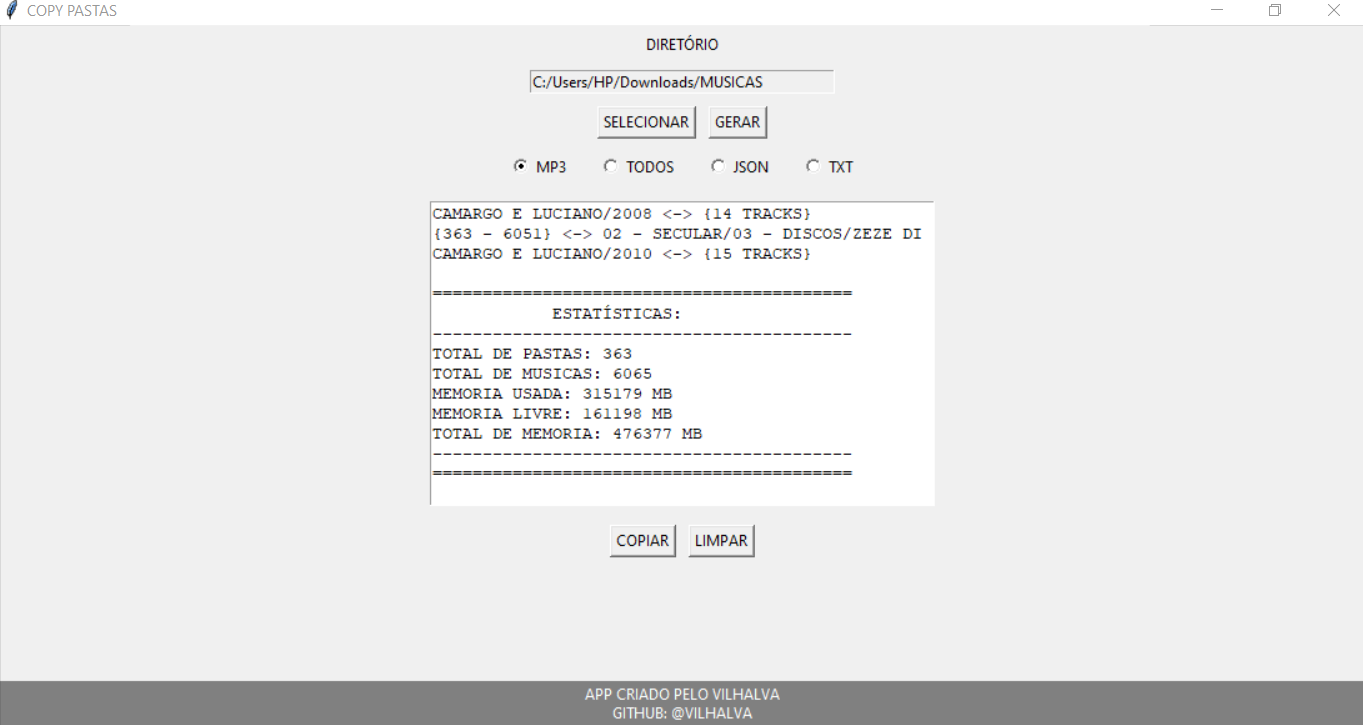
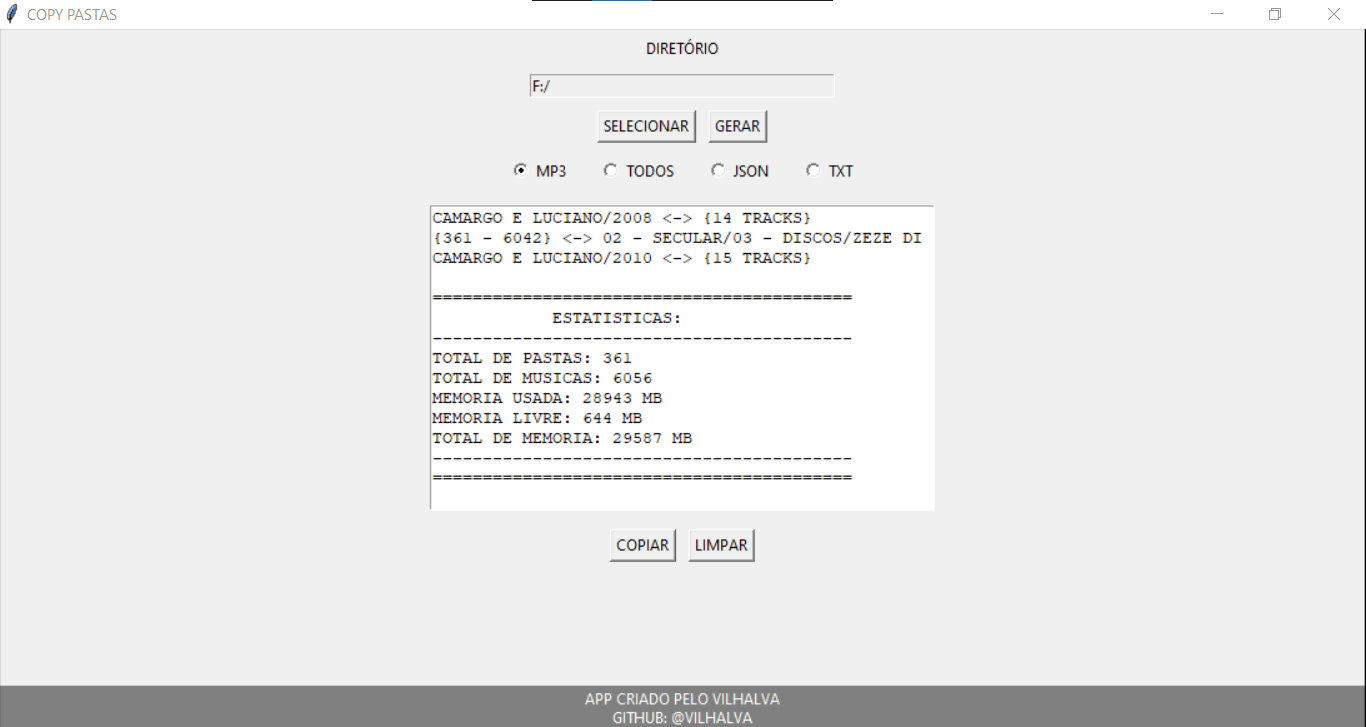
Add files via upload

diff --git a/CODIGO/CODIGO.py b/CODIGO/CODIGO.py
@@ -137,7 +137,7 @@ class NomeArquivosApp:
         total_memoria, memoria_livre, memoria_usada = get_drive_space(dir_path)
         estatisticas = f"""
 ==========================================
-            ESTATÍSTICAS:
+            ESTATISTICAS:
 ------------------------------------------
 TOTAL DE PASTAS: {len(directory_list)}
 {"TOTAL DE MUSICAS" if tipo == "MP3" else "TOTAL DE ARQUIVOS"}: {total_musicas if tipo == "MP3" else total_arquivos}

diff --git a/README.md b/README.md
@@ -52,7 +52,7 @@ A principal funcionalidade é listar os caminhos dos diretórios de um caminho r
 
    ```
    ==========================================
-               ESTATÍSTICAS:
+               ESTATISTICAS:
    ------------------------------------------
    TOTAL DE PASTAS: 10
    TOTAL DE ARQUIVOS: 171
